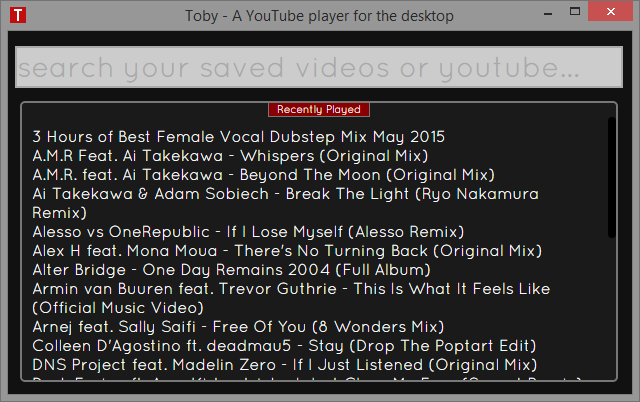
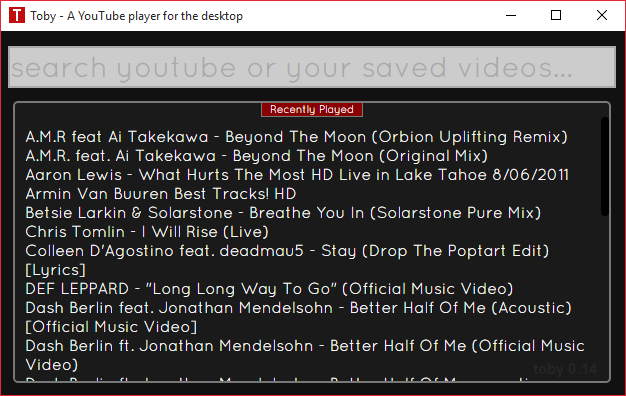
Update screenshots & Fix search prefix regex

diff --git a/assets/build/toby.js b/assets/build/toby.js
@@ -362,7 +362,7 @@ var rl=window._,sl=Md(w,ee(ll.sep,new Z(null,3,5,Ae,[ml.cwd(),"resources","app"]
 function El(){var a=[];try{var b=kl.readFileSync(xl);return JSON.parse(b.toString())}catch(c){if(c instanceof Object)return a;throw c;}}function Fl(a){var b=ql.getContentSize(),c=cl(a,"search-box");cl(a,"search-results").style.height=[w(Ic(b)-100),w("px")].join("");return c.style.width=[w(H(b)-20),w("px")].join("")}function Gl(a,b){kl.watchFile(a,function(){return b.F?b.F():b.call(null)})}
 function Hl(a,b){var c={maxResults:25,key:"AIzaSyB7AFwYCoI6ypTTSB2vnXdOtAe4hu5nP1E",type:"video"},d=function(a,c){return function(d,k){if(Da(d)){var l=Md(Ia,Y.c(function(){return function(a){return{description:a.title,ytid:a.id}}}(a,c),k));return b.f?b.f(l):b.call(null,l)}return Lc}}(a,c);return pl.j?pl.j(a,c,d):pl.call(null,a,c,d)}function Il(a,b){var c=rl.filter(a,function(a){return a.description.toLowerCase().includes(b)});return 0<c.length?c:Lc}
 function Jl(a,b){if(M.c(b,"all"))return a.videos;var c=rl.find(a.groups,function(a){return M.c(b,a.title.toLowerCase())});return!M.c(c,void 0)&&0<c.videos.length?c.videos:Lc}function Kl(a,b){if(M.c(a,void 0))return null;0<a.length;return fl(b,function(b){return U.w(b,Ah,a,P([ng,{display:"block"}],0))})}
-function Ll(a,b){if(M.c(a.keyCode,13)&&0<a.target.value.length){var c=Dk(b,Pg),d=a.target.value.trim(),e=d.toLowerCase();if(p(Pf(/^(youtube:|yt:)(\s+)?\w+/,e)))return Hl(pi(e,/^(youtube:|yt:)/).trim(),function(){return function(a){return Kl(a,b)}}(c,d,e));if(p(Pf(/^(group:|g:)(\s+)?\w+/,e)))return c=Jl(c,pi(e,/^(group:|g:)/).trim()),p(c)?Kl(c,b):null;c=Il(c.videos,e);return 0<c.length?Kl(c,b):null}c=Dk(b,ng);return M.c(c.display,"none")?null:fl(b,function(){return function(a){return U.w(a,mh,Lc,P([ng,
+function Ll(a,b){if(M.c(a.keyCode,13)&&0<a.target.value.length){var c=Dk(b,Pg),d=a.target.value.trim(),e=d.toLowerCase();if(p(Pf(/^(youtube:|yt:)[\s\w]+/,e)))return Hl(pi(e,/^(youtube:|yt:)/).trim(),function(){return function(a){return Kl(a,b)}}(c,d,e));if(p(Pf(/^(group:|g:)[\s\w]+/,e)))return c=Jl(c,pi(e,/^(group:|g:)/).trim()),p(c)?Kl(c,b):null;c=Il(c.videos,e);return 0<c.length?Kl(c,b):null}c=Dk(b,ng);return M.c(c.display,"none")?null:fl(b,function(){return function(a){return U.w(a,mh,Lc,P([ng,
 {display:"none"}],0))}}(c))}function Ml(a){a=cl(a,"search-box");return 0<a.value.length?a.value="":null}
 function Nl(a){var b=Dk(a,Cg),c=Dk(a,Jg),d=Dk(a,qh),e=Dk(a,hh);if(Xc(e)&&Xc(d))return null;if(M.c(c.display,"block"))return fl(a,function(){return function(a){return U.w(a,Jg,{display:"none"},P([ng,{display:"none"},xg,{display:"none"},eh,{visibility:"visible"}],0))}}(b,c,d,e)),ql.setTitle(e),Ml(a);fl(a,function(a){return function(b){return U.w(b,Jg,{display:"block"},P([xg,{display:0<a.length?""+w("block"):""+w("none")},eh,{visibility:"hidden"}],0))}}(b,c,d,e));return ql.setTitle("Toby - A YouTube player for the desktop")}
 function Ol(a,b){return function(){Ph("play",a.ytid);return fl(b,function(b){return U.w(b,hh,a.description,P([qh,a.ytid,eh,{visibility:"visible"},Jg,{display:"none"},xg,{display:"none"}],0))})}}function Pl(a){a=rl.take(a,50);return kl.writeFile(xl,JSON.stringify(a,void 0,2),function(){return function(a){return p(a)?throw$(a):null}}(a))}
@@ -372,12 +372,12 @@ function Vl(a){if(p(Tl(a))){var b=Dk(a,hh),c=Dk(a,qh),d={description:b,ytid:c},e
 Fg,"")}}(k,l,b,c,d,e,f,h),a)}(),2500)}}return null}function Wl(a){return rl.forEach(Dk(a,Cg),function(b){return b.nd=function(){return Ol(b,a)}.call(null)})}function Xl(a){var b=ql.getContentSize(),c=cl(a,"recently-played");a=cl(a,"recently-played-list");c.style.width=[w(H(b)-30),w("px")].join("");return a.style.height=[w(Ic(b)-120),w("px")].join("")}
 var Yl=function Yl(b,c){"undefined"===typeof gl&&(gl=function(b,c,f,h){this.Rc=b;this.data=c;this.I=f;this.Nc=h;this.m=393216;this.C=0},gl.prototype.O=function(b,c){return new gl(this.Rc,this.data,this.I,c)},gl.prototype.L=function(){return this.Nc},gl.prototype.Hb=!0,gl.prototype.Ib=function(){return new ta(null,2,[Ch,{display:"none"},Jh,Jh.f(this.data)],null)},gl.prototype.tc=!0,gl.prototype.Jb=function(b,c){var f=this,h=this;if(M.c(Jh.f(c).length,0))return null;dl(f.I,new ta(null,2,[Jh,Jh.f(c),
 Ch,{display:"block"}],null));var k=function(){return ga(function(){return function(){return dl(f.I,new ta(null,2,[Ch,{display:"none"},Jh,""],null))}}(h),f.I)}();return setTimeout(k,2500)},gl.prototype.tb=!0,gl.prototype.ub=function(b,c){var f=gd(c)?Md(Wd,c):c,h=T(f,Ch),f=T(f,Jh);return React.DOM.div({id:"notification",style:h},f)},gl.Db=function(){return new Z(null,4,5,Ae,[new D(null,"notification","notification",1418193294,null),new D(null,"data","data",1407862150,null),new D(null,"owner","owner",
-1247919588,null),new D(null,"meta30121","meta30121",93398770,null)],null)},gl.gb=!0,gl.fb="toby.core/t30120",gl.ob=function(b,c){return A(c,"toby.core/t30120")});return new gl(Yl,b,c,$e)},Zl=function Zl(b,c){"undefined"===typeof hl&&(hl=function(b,c,f,h){this.od=b;this.data=c;this.I=f;this.Oc=h;this.m=393216;this.C=0},hl.prototype.O=function(b,c){return new hl(this.od,this.data,this.I,c)},hl.prototype.L=function(){return this.Oc},hl.prototype.Gb=!0,hl.prototype.sb=function(){var b=this;window.addEventListener("resize",
+1247919588,null),new D(null,"meta30757","meta30757",-249462478,null)],null)},gl.gb=!0,gl.fb="toby.core/t30756",gl.ob=function(b,c){return A(c,"toby.core/t30756")});return new gl(Yl,b,c,$e)},Zl=function Zl(b,c){"undefined"===typeof hl&&(hl=function(b,c,f,h){this.od=b;this.data=c;this.I=f;this.Oc=h;this.m=393216;this.C=0},hl.prototype.O=function(b,c){return new hl(this.od,this.data,this.I,c)},hl.prototype.L=function(){return this.Oc},hl.prototype.Gb=!0,hl.prototype.sb=function(){var b=this;window.addEventListener("resize",
 function(){return function(){return Xl(b.I)}}(this));return Xl(b.I)},hl.prototype.gc=!0,hl.prototype.hc=function(){var b=this,c=this,f={id:"recently-played",ref:"recently-played",style:ch.f(b.data)},h=React.DOM.div({id:"recently-played-header"},"Recently Played"),k=function(){var k={id:"recently-played-list",ref:"recently-played-list"},n=Nd(ki,null,Y.c(function(){return function(b){return React.DOM.a({href:"#","data-ytid":b.ytid,onClick:b.nd},b.description)}}(k,f,h,c),rl.sortBy(Lg.f(b.data),"description")));
-return React.DOM.div(k,n)}();return React.DOM.div(f,h,k)},hl.Db=function(){return new Z(null,4,5,Ae,[new D(null,"recently-played-list","recently-played-list",-493827035,null),new D(null,"data","data",1407862150,null),new D(null,"owner","owner",1247919588,null),new D(null,"meta30144","meta30144",-1893081046,null)],null)},hl.gb=!0,hl.fb="toby.core/t30143",hl.ob=function(b,c){return A(c,"toby.core/t30143")});return new hl(Zl,b,c,$e)},$l=function $l(b,c){"undefined"===typeof il&&(il=function(b,c,f,h){this.rd=
+return React.DOM.div(k,n)}();return React.DOM.div(f,h,k)},hl.Db=function(){return new Z(null,4,5,Ae,[new D(null,"recently-played-list","recently-played-list",-493827035,null),new D(null,"data","data",1407862150,null),new D(null,"owner","owner",1247919588,null),new D(null,"meta30780","meta30780",-1181163638,null)],null)},hl.gb=!0,hl.fb="toby.core/t30779",hl.ob=function(b,c){return A(c,"toby.core/t30779")});return new hl(Zl,b,c,$e)},$l=function $l(b,c){"undefined"===typeof il&&(il=function(b,c,f,h){this.rd=
 b;this.data=c;this.I=f;this.Pc=h;this.m=393216;this.C=0},il.prototype.O=function(b,c){return new il(this.rd,this.data,this.I,c)},il.prototype.L=function(){return this.Pc},il.prototype.Gb=!0,il.prototype.sb=function(){var b=this,c=this,f=cl(b.I,"webview");f.addEventListener("new-window",function(){return function(b){return ol.openExternal(b.url)}}(f,c));return Qh("video-info",function(){return ga(function(){return function(c){var e=Dk(b.I,Fh);ql.setTitle(c.title);if(!M.c(e,void 0)){var f=c.title;c=
 c.video_id;e.c?e.c(f,c):e.call(null,f,c)}return b.I}}(f,c))}())},il.prototype.tc=!0,il.prototype.Jb=function(b,c){return fl(this.I,function(){return function(b){return U.w(b,ch,ch.f(c),P([Fh,Fh.f(c)],0))}}(this))},il.prototype.tb=!0,il.prototype.ub=function(b,c){var f=gd(c)?Md(Wd,c):c,h=T(f,ch);T(f,Fh);return React.DOM.div(null,React.createElement("webview",{id:"webview",ref:"webview",src:"../html/player.html",style:h}))},il.Db=function(){return new Z(null,4,5,Ae,[new D(null,"video-playback","video-playback",
-2110280557,null),new D(null,"data","data",1407862150,null),new D(null,"owner","owner",1247919588,null),new D(null,"meta30169","meta30169",1012144648,null)],null)},il.gb=!0,il.fb="toby.core/t30168",il.ob=function(b,c){return A(c,"toby.core/t30168")});return new il($l,b,c,$e)};
+2110280557,null),new D(null,"data","data",1407862150,null),new D(null,"owner","owner",1247919588,null),new D(null,"meta30805","meta30805",1442163941,null)],null)},il.gb=!0,il.fb="toby.core/t30804",il.ob=function(b,c){return A(c,"toby.core/t30804")});return new il($l,b,c,$e)};
 (function(a){Lh.listen(a);a=[w("socket.io server listening on port: "),w(a)].join("");console.log(a);return Lh.on("connection",function(a){a.on("error",function(a){return console.log(a)});a.on("video-info",function(a){return Rh("video-info",a)});a.on("video-settings",function(a){return Rh("video-settings",a)});return a.on("youtube-api-ready",function(){Yd.c?Yd.c(Oh,a):Yd.call(null,Oh,a);return Rh("youtube-api-ready",null)})})})(5150);
 (function(a,b,c){var d=gd(c)?Md(Wd,c):c,e=T(d,yh),f=T(d,Kh),h=T(d,jg),k=T(d,wg),l=T(d,pg),n=T(d,Kg),r=T(d,rh);if(!id(a))throw Error([w("Assert failed: "),w("First argument must be a function"),w("\n"),w(ag(P([vd(new D(null,"ifn?","ifn?",-2106461064,null),new D(null,"f","f",43394975,null))],0)))].join(""));if(null==e)throw Error([w("Assert failed: "),w("No target specified to om.core/root"),w("\n"),w(ag(P([vd(new D(null,"not","not",1044554643,null),vd(new D(null,"nil?","nil?",1612038930,null),new D(null,
 "target","target",1893533248,null)))],0)))].join(""));var q=N.f?N.f(Vk):N.call(null,Vk);jd(q,e)&&T(q,e).call(null);null==cg&&(cg=X?X(0):Vd.call(null,0));q=mc([w("G__"),w($d.c(cg,xc))].join(""));b=(b?b.C&16384||b.vd||(b.C?0:u(Xb,b)):u(Xb,b))?b:X?X(b):Vd.call(null,b);var t=al(b,q,f),x=p(n)?n:pd,E=Qc.w(d,yh,P([Kh,jg,Kg,rh],0)),B=X?X(null):Vd.call(null,null),C=function(b,c,d,e,f,h,k,l,n,r,q,t,x,E){return function Za(){$d.j(Tk,Wc,Za);var c=N.f?N.f(d):N.call(null,d),k=function(){var a=bl(null==t?jk(c,d,
@@ -392,6 +392,6 @@ N.call(null,zl),0)?Yd.c?Yd.c(zl,1):Yd.call(null,zl,1):Yd.c?Yd.c(zl,0):Yd.call(nu
 N.call(null,Bl)),c=Ph("video-settings",{sepia:c}));return c}}(this);window.addEventListener("resize",function(){return function(){return Fl(b.I)}}(this));Fl(b.I);Gl(wl,function(){return function(){var c=Cl();return el(b.I,Pg,c)}}(this));Gl(xl,function(){return function(){var c=El();return 0<c.length?(el(b.I,Cg,c),el(b.I,xg,{display:"block"}),Wl(b.I)):el(b.I,xg,{display:"none"})}}(this));0<Dk(b.I,Cg).length&&el(b.I,xg,{display:"block"});return Wl(b.I)},jl.prototype.tb=!0,jl.prototype.ub=function(b,
 c){var f=this,h=gd(c)?Md(Wd,c):c,k=T(h,og),l=T(h,Ah),n=T(h,Cg),r=T(h,xg),q=T(h,Jg),t=T(h,ng),x=T(h,eh),E=T(h,Fg),B=T(h,Fh),C=this,L={id:"main-content"},K=function(){var b=[w(k.name),w(" "),w(k.version)].join("");return React.DOM.h1({className:"subdued-text"},b)}(),V=function(){var b={id:"search-list",ref:"search-list",style:q},d=function(){var d={type:"text",id:"search-box",ref:"search-box",placeholder:"search youtube or your saved videos...",onKeyDown:function(){return function(b){return Ll(b,f.I)}}(b,
 L,K,C,c,h,k,l,n,r,q,t,x,E,B)};return mi.f?mi.f(d):mi.call(null,d)}(),J=function(){var J={id:"search-results",ref:"search-results",style:t},Q=Nd(ki,null,Y.c(function(b,c,d,e,h,k,l,n,q,r,t,x,B,C,E,J,K){return function(L){return React.DOM.a({href:"#","data-ytid":L.ytid,onClick:function(){return function(b){return Rl(b,f.I)}}(b,c,d,e,h,k,l,n,q,r,t,x,B,C,E,J,K)},L.description)}}(J,b,d,L,K,C,c,h,k,l,n,r,q,t,x,E,B),l));return React.DOM.div(J,Q)}();return React.DOM.div(b,d,J)}(),za=Zk(Zl,new ta(null,2,[Lg,
-n,ch,r],null)),gb=Zk($l,new ta(null,2,[ch,x,Fh,B],null)),J=Zk(Yl,new ta(null,1,[Jh,E],null));return React.DOM.div(L,K,V,za,gb,J)},jl.Db=function(){return new Z(null,4,5,Ae,[new D(null,"video-search","video-search",1219388055,null),new D(null,"data","data",1407862150,null),new D(null,"owner","owner",1247919588,null),new D(null,"meta30208","meta30208",-1956313728,null)],null)},jl.gb=!0,jl.fb="toby.core/t30207",jl.ob=function(b,c){return A(c,"toby.core/t30207")});return new jl(bm,b,c,$e)},Lc,new ta(null,
+n,ch,r],null)),gb=Zk($l,new ta(null,2,[ch,x,Fh,B],null)),J=Zk(Yl,new ta(null,1,[Jh,E],null));return React.DOM.div(L,K,V,za,gb,J)},jl.Db=function(){return new Z(null,4,5,Ae,[new D(null,"video-search","video-search",1219388055,null),new D(null,"data","data",1407862150,null),new D(null,"owner","owner",1247919588,null),new D(null,"meta30844","meta30844",882566536,null)],null)},jl.gb=!0,jl.fb="toby.core/t30843",jl.ob=function(b,c){return A(c,"toby.core/t30843")});return new jl(bm,b,c,$e)},Lc,new ta(null,
 1,[yh,document.getElementById("ui")],null));var cm=Qh("youtube-api-ready",function(){var a=nj(mg),b=nj(ih);a.css(gg(new ta(null,1,[Dh,"visible"],null)));var c=P(["fast"],0),d=S(c,0),c=S(c,1);b.fadeOut(d,c);a=oj(a);d=P(["slow"],0);b=S(d,0);d=S(d,1);return a.fadeIn(b,d)});nj(document).ready(cm);
 })();
